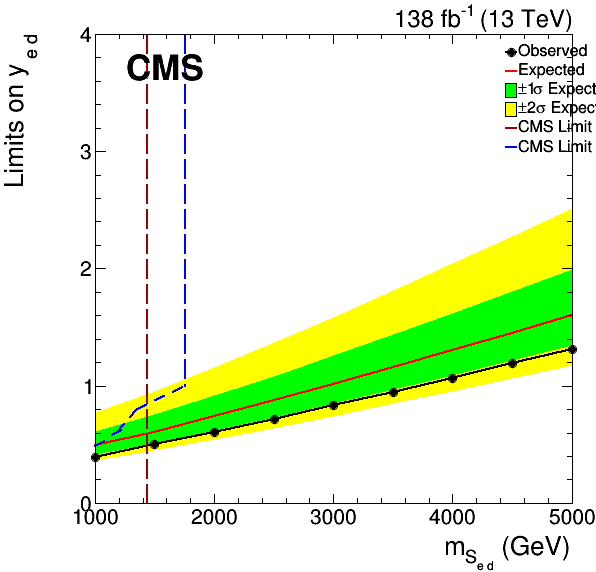
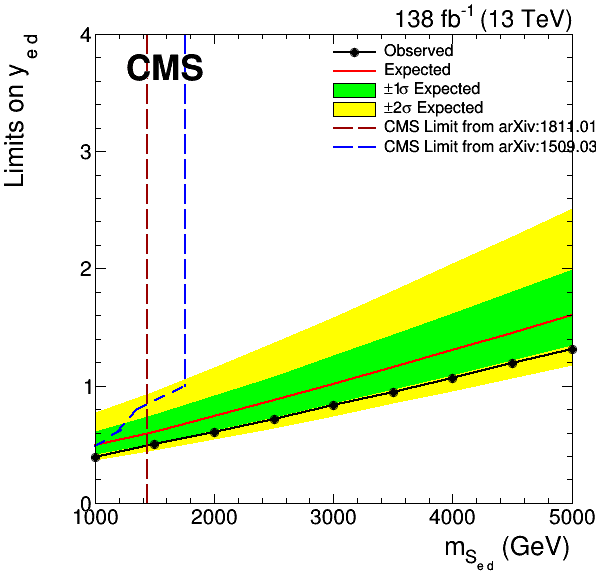
eu ed limit legend

Changed region(s): [[0.5436, 0.0594, 1.0, 0.2675]]

diff --git a/analyze/combine/AFB_fits/scripts/LQ_get_limits.py b/analyze/combine/AFB_fits/scripts/LQ_get_limits.py
@@ -65,7 +65,7 @@ def plotLimits(channel):
     axis.Draw('axis')
      
      # Create a legend in the top left
-    legend = PositionedLegend(0.1, 0.2, 3, 0.015)
+    legend = PositionedLegend(0.4, 0.2, 3, 0.015)
      
      # Set the standard green and yellow colors and draw
     StyleLimitBand(graphs)
